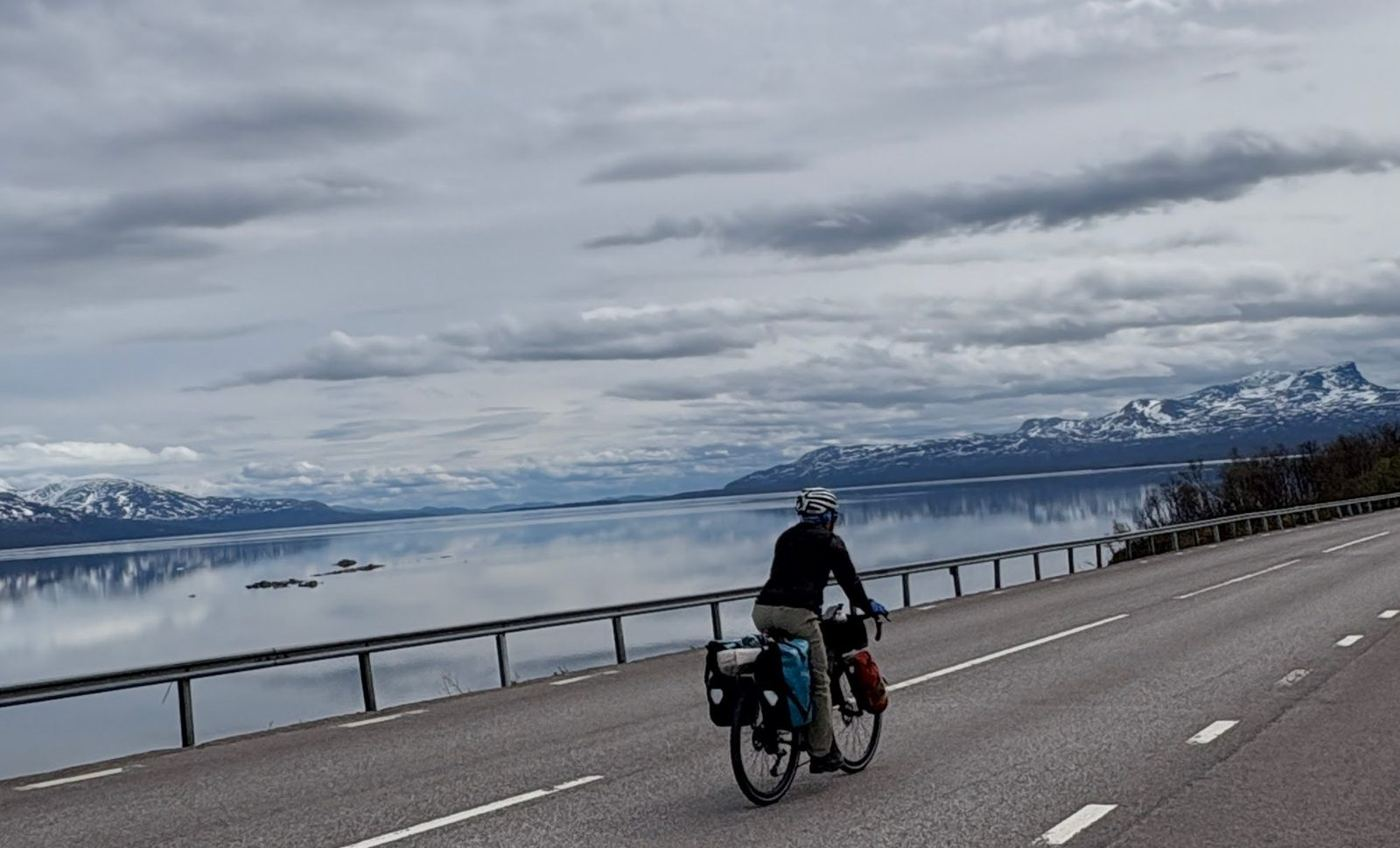
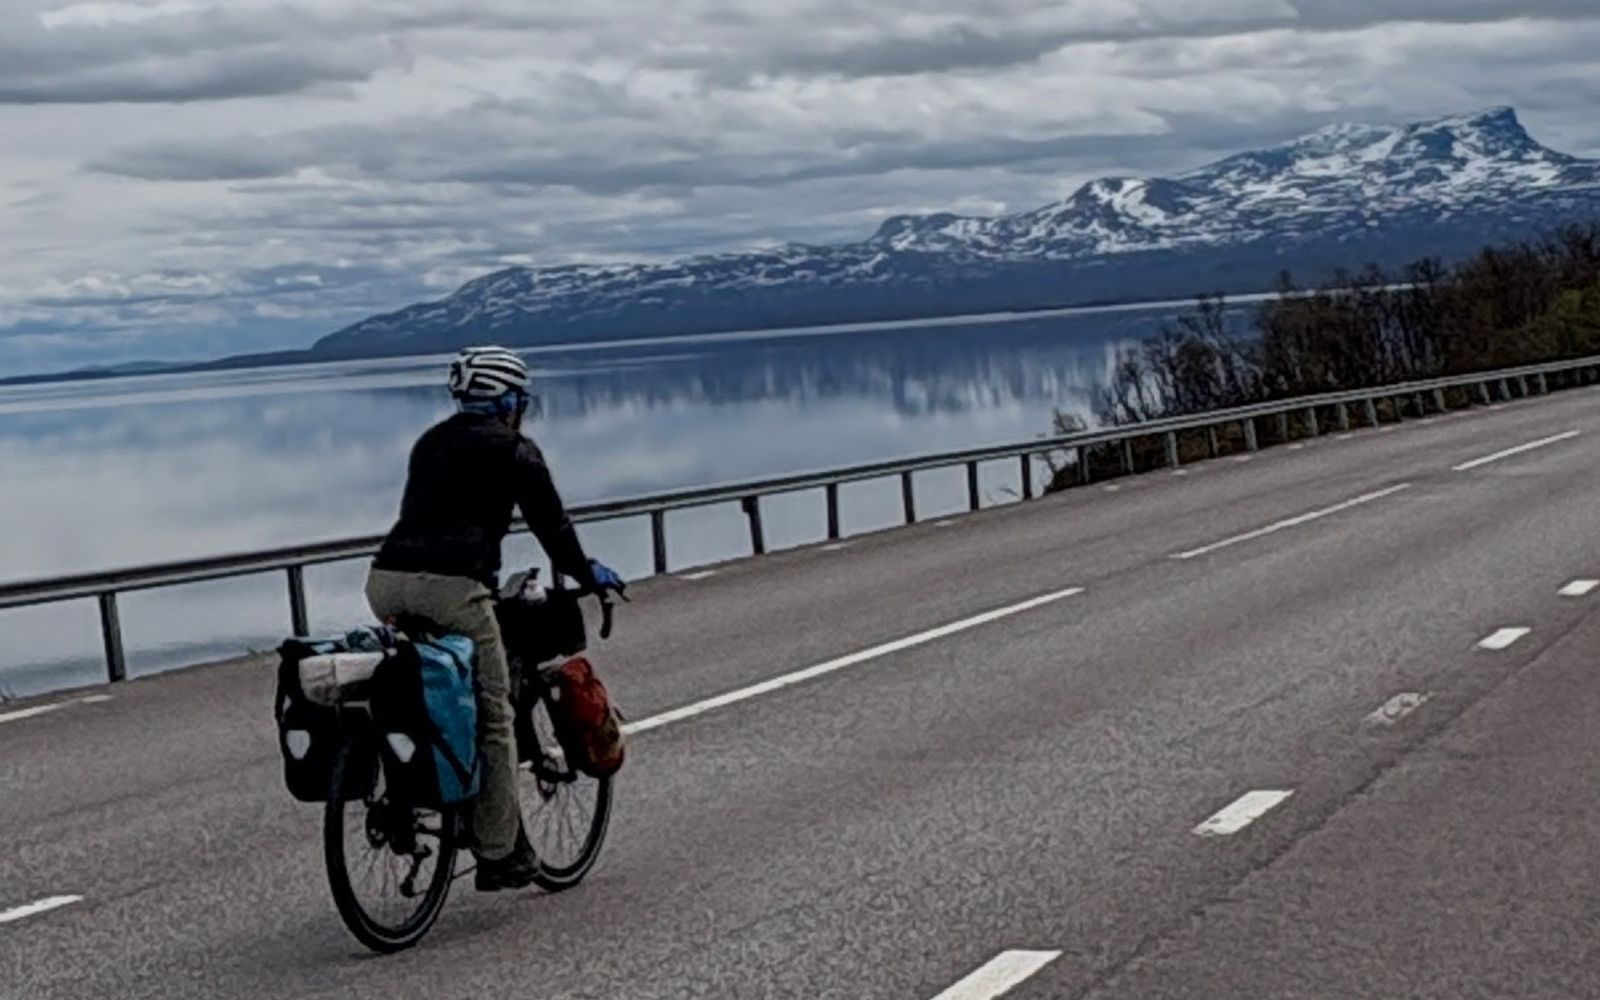
hero: rider bottom-left, globe top-right, pointer line from rider to the facing country

diff --git a/static/js/globe.js b/static/js/globe.js
@@ -52,7 +52,49 @@
       ctx.fillText(String(p.n), c[0], c[1] + .5);
     });
   }
-  function tick() { dash = (dash + .35) % 12; if (spin) rot[0] += .18; draw(); raf = requestAnimationFrame(tick); }
+
+  // ── 方向線:照片裡的人 → 地球上正對著的國家(他 09-24 手畫的箭頭)
+  var RIDER = { x: .305, y: .36 };   // 首頁大圖裁切後,人的頭盔位置(比例)
+  var host = document.getElementById('globe-wrap');
+  var box = host && host.offsetParent;           // 橫幅內容區(position:relative)
+  var svg = null, pathEl = null, dotA = null, dotB = null, tag = null;
+  if (box) {
+    var NS = 'http://www.w3.org/2000/svg';
+    svg = document.createElementNS(NS, 'svg'); svg.id = 'globe-pointer';
+    svg.innerHTML = '<defs><linearGradient id="gp-grad" x1="0" y1="0" x2="1" y2="0">'
+      + '<stop offset="0" stop-color="#ffffff" stop-opacity=".25"/><stop offset="1" stop-color="#fbbf24" stop-opacity=".95"/></linearGradient></defs>'
+      + '<path id="gp-path" fill="none" stroke="url(#gp-grad)" stroke-width="2" stroke-dasharray="6 7" stroke-linecap="round"/>'
+      + '<circle id="gp-a" r="4" fill="#fff" fill-opacity=".85"/><circle id="gp-b" r="6" fill="none" stroke="#fbbf24" stroke-width="2"/>'
+      + '<text id="gp-tag" font-size="13" font-weight="700" fill="#fff" style="paint-order:stroke;stroke:rgba(0,0,0,.55);stroke-width:3px"></text>';
+    box.appendChild(svg);
+    pathEl = svg.querySelector('#gp-path'); dotA = svg.querySelector('#gp-a'); dotB = svg.querySelector('#gp-b'); tag = svg.querySelector('#gp-tag');
+  }
+  var bgImg = document.querySelector('img[src*="home-bg"]');
+  function frontMost() {
+    if (hover) return hover;
+    var best = null, bd = 9;
+    pts.forEach(function (p) { var d = d3.geoDistance([p.lon, p.lat], [-rot[0], -rot[1]]); if (d < bd) { bd = d; best = p; } });
+    return bd < 1.2 ? best : null;
+  }
+  function pointer() {
+    if (!svg || getComputedStyle(svg).display === 'none') return;
+    var p = frontMost();
+    if (!p) { pathEl.setAttribute('d', ''); dotA.setAttribute('r', 0); dotB.setAttribute('r', 0); tag.textContent = ''; return; }
+    var br = box.getBoundingClientRect(), cr = cv.getBoundingClientRect(), s = cr.width / W;
+    var c = proj([p.lon, p.lat]); if (!c) return;
+    var bx = cr.left - br.left + c[0] * s, by = cr.top - br.top + c[1] * s;
+    var ir = (bgImg || box).getBoundingClientRect();
+    var ax = ir.left - br.left + RIDER.x * ir.width, ay = ir.top - br.top + RIDER.y * ir.height;
+    var mx = (ax + bx) / 2, my = Math.min(ay, by) - 60;          // 往上拱的弧線
+    pathEl.setAttribute('d', 'M' + ax + ',' + ay + ' Q' + mx + ',' + my + ' ' + bx + ',' + by);
+    pathEl.setAttribute('stroke-dashoffset', -dash * 1.2);
+    dotA.setAttribute('cx', ax); dotA.setAttribute('cy', ay); dotA.setAttribute('r', 4);
+    dotB.setAttribute('cx', bx); dotB.setAttribute('cy', by); dotB.setAttribute('r', 6 + Math.sin(dash / 12 * 6.2832) * 1.5);
+    tag.setAttribute('x', bx - 8); tag.setAttribute('y', by - 14); tag.setAttribute('text-anchor', 'end');
+    tag.textContent = p.name + ' · ' + p.n + ' 篇';
+  }
+
+  function tick() { dash = (dash + .35) % 12; if (spin) rot[0] += .18; draw(); pointer(); raf = requestAnimationFrame(tick); }
   function start() { if (!raf) raf = requestAnimationFrame(tick); }
   function stop() { if (raf) { cancelAnimationFrame(raf); raf = null; } }
 

diff --git a/assets/css/custom.css b/assets/css/custom.css
@@ -61,8 +61,12 @@
 
 /* 首頁地球:桌機靠右下,不擋住照片裡的人;手機回到一般流(09-24) */
 @media (min-width:1024px){
-  #globe-wrap{ position:absolute; right:1.5rem; bottom:1rem; margin:0; z-index:2; }
+  #globe-wrap{ position:absolute; right:1.5rem; top:1rem; margin:0; z-index:2; }
   #globe-wrap canvas{ width:340px !important; }
 }
 #globe-wrap canvas{ filter: drop-shadow(0 12px 28px rgba(0,0,0,.45)); }
 #globe-label{ text-shadow:0 1px 3px rgba(0,0,0,.6); }
+
+/* 從照片裡的人拉到地球上那個國家的方向線(桌機才顯示) */
+#globe-pointer{ position:absolute; inset:0; pointer-events:none; z-index:1; display:none; }
+@media (min-width:1024px){ #globe-pointer{ display:block; } }

diff --git a/content/_index.md b/content/_index.md
@@ -1,7 +1,7 @@
 ---
 title: "Ride from Taiwan"
 description: "騎單車看世界"
-imagePosition: "100% 45%"
+imagePosition: "50% 50%"
 ---
 
 每一趟旅程都留下路線、里程、照片與文字。
